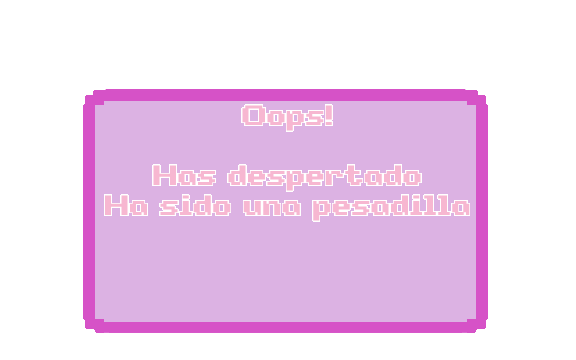
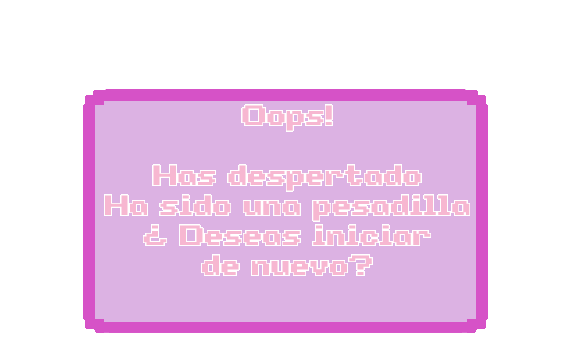
Menus necesarios

Changed region(s): [[0.25, 0.6111, 0.75, 0.7639]]

diff --git a/core/src/com/mygdx/magicalrush/PantallaJuego.java b/core/src/com/mygdx/magicalrush/PantallaJuego.java
@@ -29,6 +29,8 @@ import com.badlogic.gdx.utils.Timer;
 import com.badlogic.gdx.utils.viewport.StretchViewport;
 import com.badlogic.gdx.utils.viewport.Viewport;
 
+import javax.xml.soap.Text;
+
 
     public class PantallaJuego implements Screen
 
@@ -131,6 +133,18 @@ import com.badlogic.gdx.utils.viewport.Viewport;
     //Pausa
     private Texture pantallaPausa;
 
+    //Ganar
+    private Texture pantallaGana;
+
+    //Perder
+    private Texture pantallaPierde;
+
+    // Si && No
+    private Texture Si;
+    private Texture No;
+    private Boton btnSi;
+    private Boton btnNo;
+
     // Fondo
     private Texture texturaNubes;
     private float xFondo = 0;
@@ -229,6 +243,11 @@ import com.badlogic.gdx.utils.viewport.Viewport;
 
         assetManager.load("btones.png", Texture.class);
 
+        assetManager.load("continuar_nivel.png", Texture.class);
+        assetManager.load("despertaste_continuar.png", Texture.class);
+        assetManager.load("Si.png", Texture.class);
+        assetManager.load("No.png", Texture.class);
+
         // Se bloquea hasta que cargue todos los recursos
         assetManager.finishLoading();
     }
@@ -259,7 +278,7 @@ import com.badlogic.gdx.utils.viewport.Viewport;
 
         rui.setVida(2);
         rui.setEnergia(0);
-        keyCount=0;
+        keyCount=1;
         keyNeed=1;
 
         //ITEM
@@ -286,14 +305,16 @@ import com.badlogic.gdx.utils.viewport.Viewport;
         Llave3 = assetManager.get("Llave_3.png");
 
         pantallaPausa = assetManager.get("btones.png");
+        pantallaGana = assetManager.get("continuar_nivel.png");
+        pantallaPierde = assetManager.get("despertaste_continuar.png");
+        Si = assetManager.get("Si.png");
+        No = assetManager.get("No.png");
 
 
         key = new Item(keyTexture, 640, 340, 1);
         vida = new Item(vidaTexture, 965, 635, 2);
         energia = new Item(energiaTexture, 250, 750, 3);
         puerta = new Item(puertaTexture, 1412,608,4);
-
-        keyCount = 0;
 
         // Posición inicial del personaje
         rui.setPosicion(rui.getX(),900);
@@ -307,6 +328,8 @@ import com.badlogic.gdx.utils.viewport.Viewport;
         btnMenu = new Boton(menu);
         reiniciar = assetManager.get("Cont_bot3.png");
         btnReiniciar = new Boton(reiniciar);
+        btnSi = new Boton(Si);
+        btnNo = new Boton(No);
 
         texturaBtnIzquierda = assetManager.get("izquierda.png");
         btnIzquierda = new Boton(texturaBtnIzquierda);
@@ -388,7 +411,12 @@ import com.badlogic.gdx.utils.viewport.Viewport;
         // ¿Ya ganó?
         if (estadoJuego==EstadosJuego.GANO) {
             pantallaGana(batch);
-        } else {
+        }
+        if (estadoJuego==EstadosJuego.PERDIO)
+        {
+            pantallaPerdio(batch);
+        }
+        else {
             btnIzquierda.render(batch);
             btnDerecha.render(batch);
             btnSalto.render(batch);
@@ -400,16 +428,25 @@ import com.badlogic.gdx.utils.viewport.Viewport;
 
     }
 
+    private void pantallaPerdio(SpriteBatch batch)
+    {
+        System.out.println("PERDISTE :(");
+    }
+
     private void pantallaGana(SpriteBatch batch) {
 
-        System.out.println("GANASTE PAPASiTO");
+        batch.draw(pantallaGana, (pantallaGana.getWidth()-(pantallaGana.getWidth()/3)),(pantallaGana.getHeight()-(pantallaGana.getHeight()/2)));
+        btnSi.setPosicion( (pantallaGana.getWidth()-(pantallaGana.getWidth()/3) + Si.getWidth()*3) , (pantallaGana.getHeight()-(pantallaGana.getHeight()/2) + Si.getWidth()) );
+        btnSi.render(batch);
+        btnNo.setPosicion( (pantallaGana.getWidth()-(pantallaGana.getWidth()/3) + Si.getWidth()*8) , (pantallaGana.getHeight()-(pantallaGana.getHeight()/2) + Si.getWidth()) );
+        btnNo.render(batch);
 
     }
 
     private void pantallaPausa(SpriteBatch batch) {
         if(estadoJuego == EstadosJuego.PAUSADO)
         {
-            batch.draw(pantallaPausa, (pantallaPausa.getWidth()-(pantallaPausa.getWidth()/8)), (pantallaPausa.getHeight()-(pantallaPausa.getHeight()/2)));
+            batch.draw(pantallaPausa, (pantallaPausa.getWidth()-(pantallaPausa.getWidth()/4)), (pantallaPausa.getHeight()-(pantallaPausa.getHeight()/2)));
 
             btnCont.setPosicion( (pantallaPausa.getWidth()-(pantallaPausa.getWidth()/8) + continuar.getWidth()/3), (pantallaPausa.getHeight()-(pantallaPausa.getHeight()/2) + continuar.getHeight()*4 ) );
             btnCont.render(batch);
@@ -488,7 +525,7 @@ import com.badlogic.gdx.utils.viewport.Viewport;
             Item it = arrItem.get(i);
             if( ((rui.getX()+52) >= it.getX()) && ((rui.getX() < it.getX()+30)) )
             {
-                if(((rui.getY()+70) >= it.getY()) && (rui.getY() < it.getY()) )
+                if(((rui.getY()+72) >= it.getY()) && (rui.getY()-70 < it.getY()) )
                 {
                     if(it.getTipo() == 1)
                     {
@@ -521,6 +558,10 @@ import com.badlogic.gdx.utils.viewport.Viewport;
 
     private void stats(){
 
+        if(rui.getVida() == 0)
+        {
+            estadoJuego = EstadosJuego.PERDIO;
+        }
         if(rui.getVida() >= 3)
         {
             rui.setVida(3);
@@ -789,6 +830,11 @@ import com.badlogic.gdx.utils.viewport.Viewport;
 
         assetManager.unload("btones.png");
 
+        assetManager.unload("continuar_nivel.png");
+        assetManager.unload("despertaste_continuar.png");
+        assetManager.unload("Si.png");
+        assetManager.unload("No.png");
+
     }
 
     /*
@@ -850,9 +896,24 @@ import com.badlogic.gdx.utils.viewport.Viewport;
                     juego.setScreen(new PantallaCargando(juego));
                     estadoJuego=EstadosJuego.JUGANDO;
                 }
+            }  else if (estadoJuego==EstadosJuego.PERDIO) {
+                if(btnSi.contiene(x,y)){
+                    juego.setScreen(new PantallaCargando(juego));
+                    estadoJuego=EstadosJuego.JUGANDO;
+                }
+                if(btnNo.contiene(x,y)){
+                    juego.setScreen(new Menu(juego));
+                    estadoJuego=EstadosJuego.PERDIO;
+                }
             }  else if (estadoJuego==EstadosJuego.GANO) {
-
-
+                if(btnSi.contiene(x,y)){
+                    juego.setScreen(new PantallaCargando(juego));
+                    estadoJuego=EstadosJuego.JUGANDO;
+                }
+                if(btnNo.contiene(x,y)){
+                    juego.setScreen(new Menu(juego));
+                    estadoJuego=EstadosJuego.PERDIO;
+                }
             }
             return true;    // Indica que ya procesó el evento
         }
